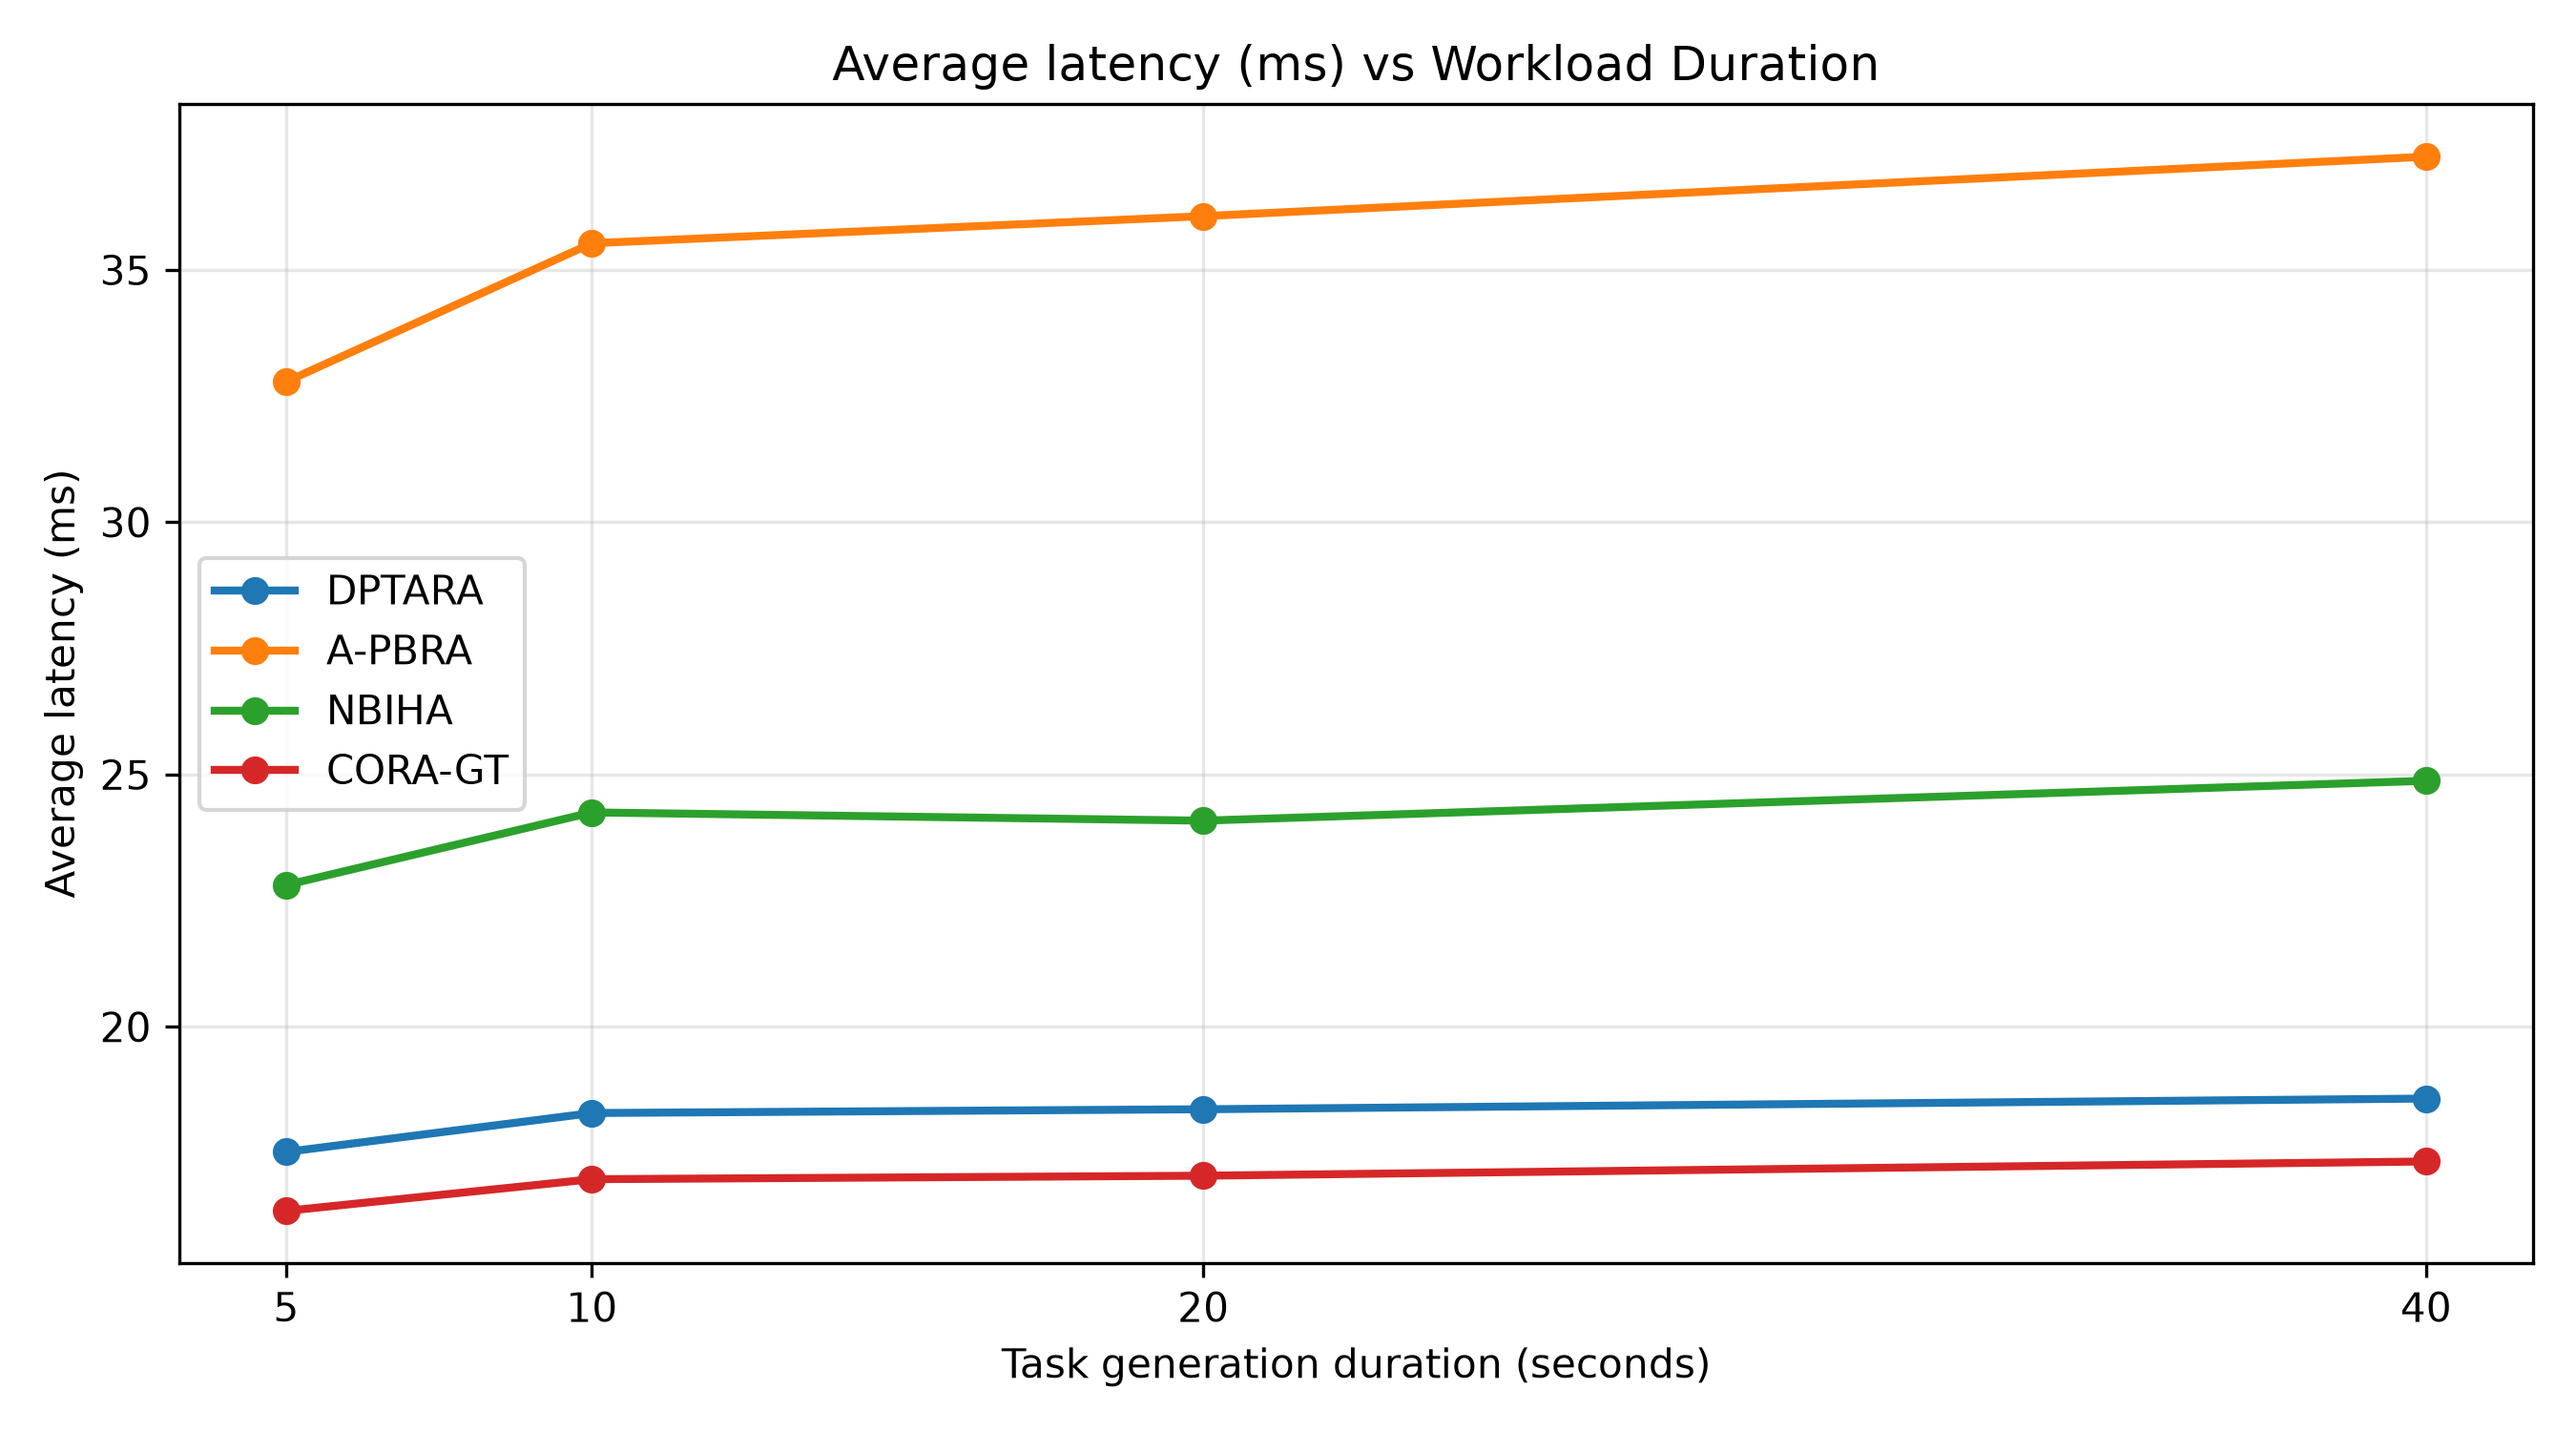
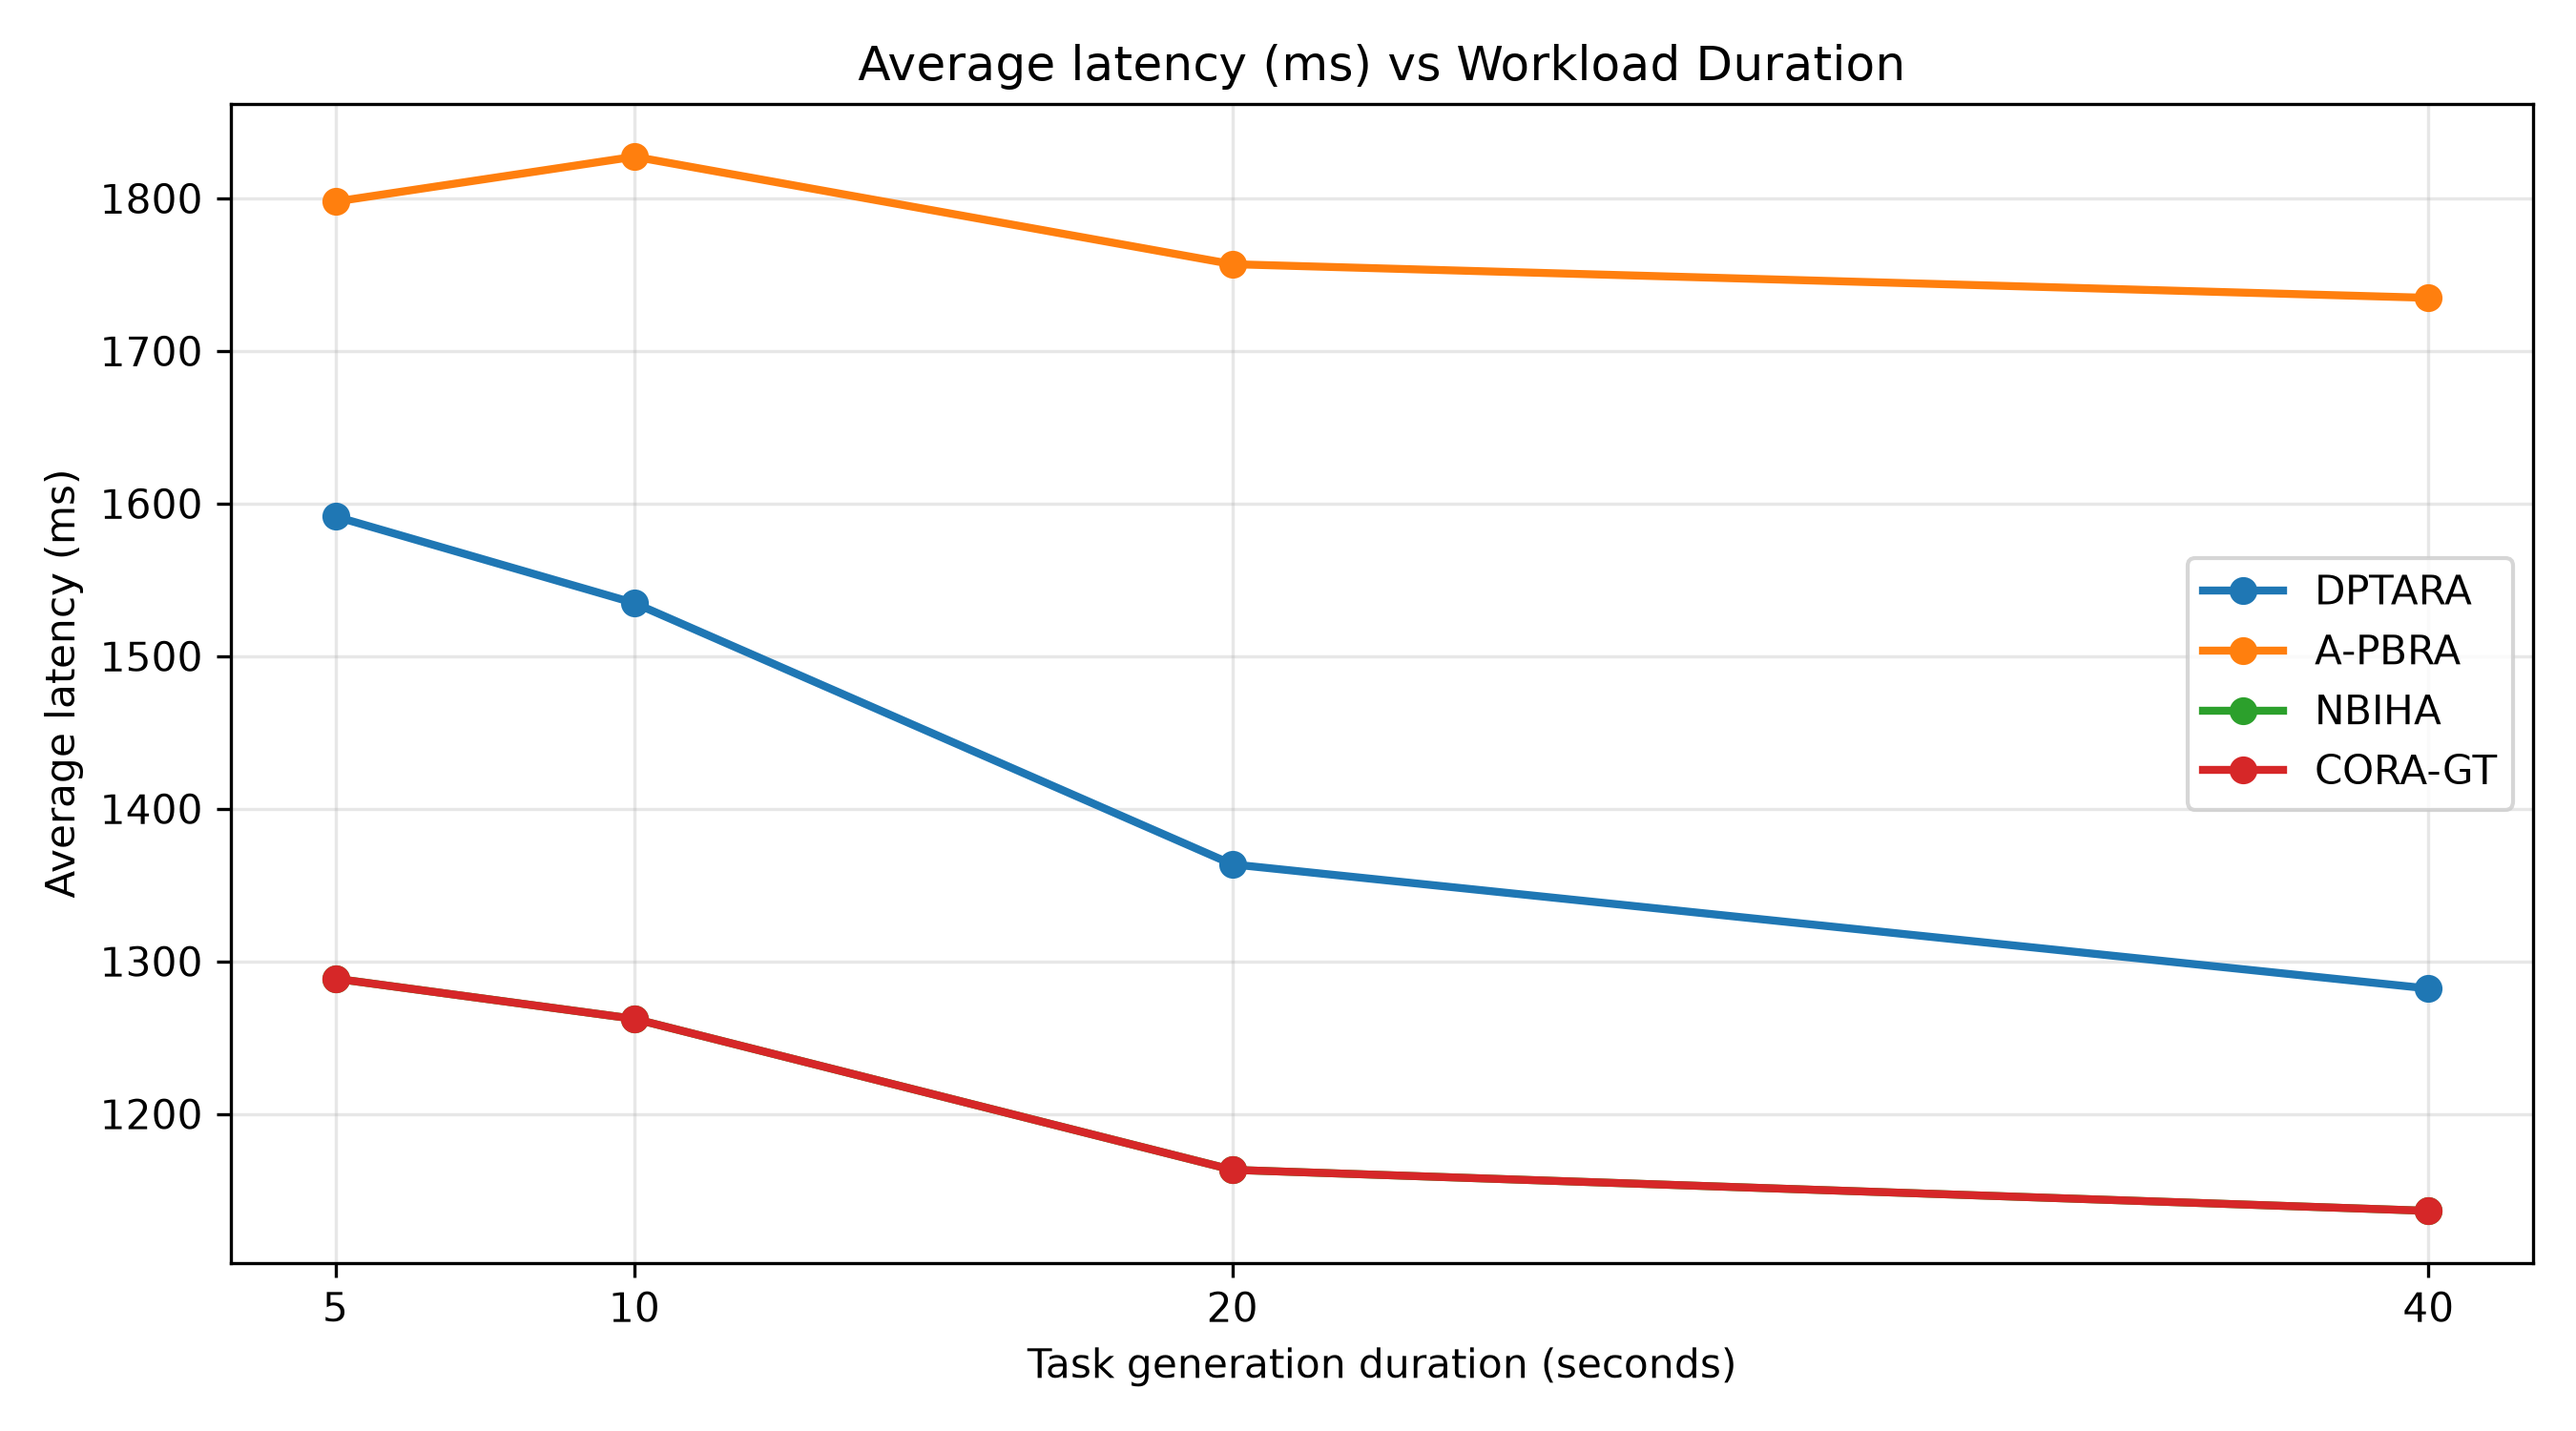
run

diff --git a/results/experiment_notes.md b/results/experiment_notes.md
@@ -1,26 +1,99 @@
-# Experiment notes
+# Experiment Notes
 
-## Experimental setup
+## 1. Experimental setup
+
 - Algorithms: DPTARA, A-PBRA, NBIHA and CORA-GT.
 - Task arrival rate: 5 tasks/second.
 - Task generation durations: 5, 10, 20 and 40 seconds.
 - Random seeds: 42, 43, 44, 45 and 46.
-- Each run creates a fresh simulator instance.
-- Matching seeds and durations are used across algorithms to make the
-  generated task workload and resource configuration reproducible.
+- Each experiment creates a fresh simulator instance.
+- Matching seeds and durations are used across algorithms.
+- The simulation initializes 10 edge servers and one cloud server.
 
-## Interpretation and limitations
-- A-PBRA, NBIHA and CORA-GT are paper-informed heuristic adaptations
-  in this implementation, not verified exact reproductions of the
-  original algorithms.
-- The target paper does not fully specify all baseline pseudocode or
-  all parameters needed for exact reproduction.
-- The simulator uses task size (MB) as a normalized resource-load
-  proxy. Its reported normalized resource-load ratio must not be
-  described as measured physical CPU utilization.
-- The paper's computing-time expression and the relationship between
-  task size and CPU demand have unit/model limitations. Interpret
-  latency and execution-time results as outputs of this simulator's
-  stated model, not as calibrated real-world measurements.
-- Compare the algorithms using the generated CSV files. Do not alter
-  measured results to match values reported in the paper.
+## 2. Computational model
+
+The implementation distinguishes three quantities:
+
+- Task input data size: MB.
+- Computational workload: MI.
+- CPU demand: MIPS.
+
+The current task generator uses configurable implementation
+assumptions of 100 MI per MB and a CPU demand uniformly
+sampled between 50 and 250 MIPS.
+
+These numerical assumptions are not specified by the paper.
+They must be treated as simulation parameters and subjected
+to sensitivity analysis.
+
+Execution time is calculated using:
+
+    Execution time = Workload (MI) / Processing speed (MIPS)
+
+Resource utilization is calculated using reserved CPU demand
+relative to resource CPU capacity.
+
+## 3. Algorithm implementations
+
+- DPTARA uses dynamic task priority and resource allocation.
+- A-PBRA is a paper-informed priority-based heuristic.
+- NBIHA is a paper-informed resource-matching heuristic.
+- CORA-GT is a game-inspired utility-based heuristic.
+
+The three baseline implementations are experimental
+adaptations, not verified exact reproductions of the original
+algorithms or their optimization procedures.
+
+## 4. Performance metrics
+
+The experiment records:
+
+- Task completion rate.
+- Average task latency.
+- Average execution time.
+- Total energy consumption.
+- Deadline miss rate.
+- Deadline met rate.
+- Average system utilization.
+- Jain's fairness index for resource utilization distribution.
+
+Jain's fairness index measures distribution fairness.
+It should not be interpreted as a direct measure of
+the speed or effectiveness of load balancing.
+
+System utilization is time-weighted over the simulation
+makespan. It is not merely the final resource-load snapshot.
+
+## 5. Reproducibility
+
+Each experiment uses a fresh simulator instance.
+Random seeds are fixed to make task generation and
+resource initialization reproducible.
+
+Results are aggregated by algorithm and workload duration
+using the arithmetic mean across the five seeds.
+
+## 6. Research limitations
+
+- The paper does not fully specify all baseline pseudocode.
+- The paper does not provide all numerical CPU-demand parameters.
+- The task-size-to-workload conversion used here is an
+  implementation assumption, not a reported paper parameter.
+- The chosen priority weights and workload assumptions
+  require sensitivity analysis.
+- Results are outputs of the implemented simulation model
+  and should not be presented as calibrated real-world measurements.
+- The paper's reported results must be compared with the
+  simulation results without modifying measured outputs
+  to force agreement.
+
+## 7. Result interpretation
+
+Use comparison_raw.csv for individual experimental runs.
+
+Use comparison_summary.csv for mean results across seeds.
+
+Examine the plots alongside completion rates, deadline
+performance, utilization, and energy consumption.
+
+Do not draw conclusions from a single metric alone.
